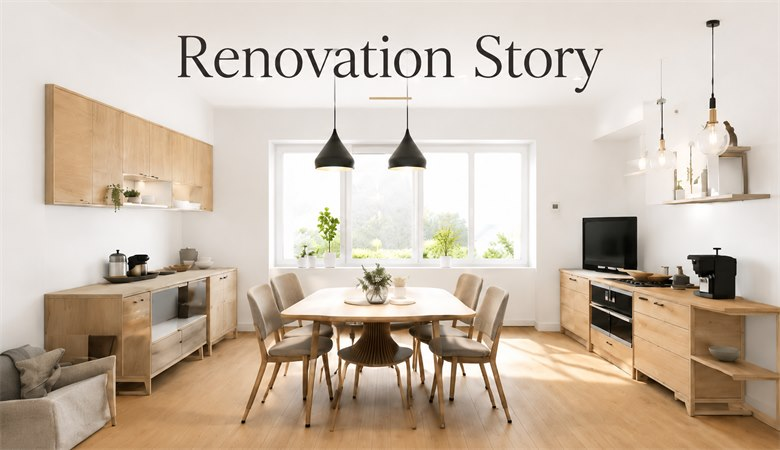
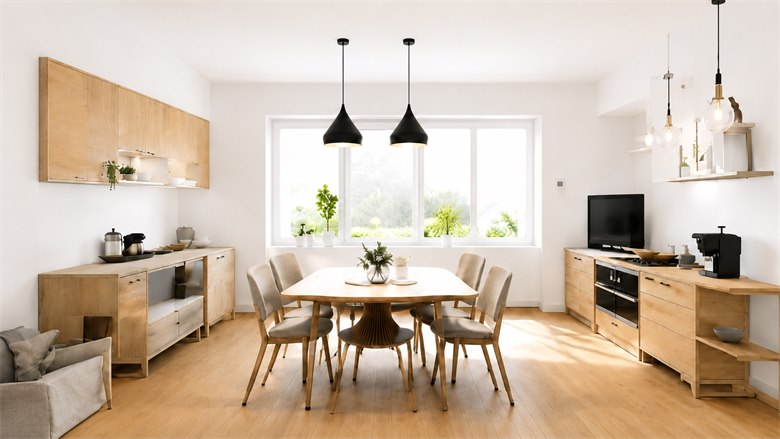
スクロールバーを隠し、見出し画像を写真だけにして文字を重ねた
- .scroll-clean を追加し、横に流れるカード列と左カラムのバーを消した。
  常時出る細いバーは画面の端に線が増えるだけで、見切れた中身そのものが
  「まだ続く」合図になる。スクロール自体はそのままできる
- 見出し画像を写真だけのものに差し替え（780x439 / 58KB）、
  「Renovation Story」はHTMLで重ねる。画面幅で大きさが変わり、
  文言を変えても画像を作り直さずに済む
  文字入りの旧版は renovation-story.withtext.jpg に残した

diff --git a/app/s/[token]/page.tsx b/app/s/[token]/page.tsx
@@ -191,17 +191,22 @@ export default async function SharePage({ params }: { params: Promise<{ token: s
         {/* ── 左：変わらない情報 ───────────────────────── */}
         {/* 左は固定するが、中身が画面より高いときは左だけで縦に流す。
             そうしないと、右を一番下まで送らないと相談窓口に届かない */}
-        <aside className="space-y-4 lg:sticky lg:top-[64px] lg:max-h-[calc(100vh-80px)] lg:self-start lg:overflow-y-auto lg:pr-1">
+        <aside className="scroll-clean space-y-4 lg:sticky lg:top-[64px] lg:max-h-[calc(100vh-80px)] lg:self-start lg:overflow-y-auto">
           {/*
             左上は現場の写真ではなく、このページ自体の見出し画像を置く。
             右のヒーローと同じ写真を並べても情報が増えないため。
           */}
           {storySrc && (
-            <div className="overflow-hidden rounded-2xl border border-slate-200 bg-white shadow-sm">
-              {/* 高さを固定すると、幅の広いスマホで上下が切れて文字が消える。
-                  画像の比率のまま出す */}
+            <div className="relative overflow-hidden rounded-2xl border border-slate-200 bg-white shadow-sm">
+              {/* 高さを固定すると、幅の広いスマホで上下が切れる。画像の比率のまま出す */}
               {/* eslint-disable-next-line @next/next/no-img-element */}
-              <img src={storySrc} alt="Renovation Story" className="block w-full" />
+              <img src={storySrc} alt="" className="block w-full" />
+              {/* 文字は画像に焼き込まず、ここで重ねる。
+                  画面幅で大きさが変わり、文言を変えても画像を作り直さずに済む */}
+              <div className="absolute inset-0 flex flex-col justify-end bg-gradient-to-t from-black/65 via-black/15 to-transparent p-4">
+                <p className="text-[9px] font-bold tracking-[0.25em] text-white/75">PROJECT</p>
+                <p className="text-[17px] font-bold leading-tight text-white">Renovation Story</p>
+              </div>
             </div>
           )}
 
@@ -334,7 +339,7 @@ export default async function SharePage({ params }: { params: Promise<{ token: s
               </div>
 
               {/* 5つの節目。狭い画面では中で横に流す（ページ全体を広げない） */}
-              <ol className="-mx-1 flex min-w-0 items-start gap-1 overflow-x-auto px-1 pb-1 sm:gap-2 lg:overflow-visible lg:pb-0">
+              <ol className="scroll-clean -mx-1 flex min-w-0 items-start gap-1 overflow-x-auto px-1 pb-1 sm:gap-2 lg:overflow-visible lg:pb-0">
                 {PHASE_GROUPS.map((g, i) => {
                   const done = week !== null && Math.max(...g.weeks) < week;
                   const now = currentGroup?.no === g.no;
@@ -463,7 +468,7 @@ export default async function SharePage({ params }: { params: Promise<{ token: s
           {story.length > 0 && (
             <section id="story">
               <h2 className="mb-3 text-[19px] font-bold">プロジェクトの歩み</h2>
-              <div className="-mx-1 flex gap-3 overflow-x-auto px-1 pb-2">
+              <div className="scroll-clean -mx-1 flex gap-3 overflow-x-auto px-1 pb-2">
                 {story.map((s) => (
                   <a
                     key={s.id}

diff --git a/components/Workspace.tsx b/components/Workspace.tsx
@@ -230,7 +230,7 @@ export default function Workspace({ project, me }: { project: Project; me: Publi
         {/* 左：どこに何があるかを固定する。縦に長い1枚ページだと迷うため */}
         {/* min-w-0 が無いと、メニューが列の幅を押し広げて横スクロールが出る */}
         <nav className="sticky top-[52px] z-10 -mx-5 min-w-0 bg-slate-100/95 px-5 py-2 backdrop-blur lg:top-[60px] lg:mx-0 lg:self-start lg:bg-transparent lg:px-0 lg:py-0 lg:backdrop-blur-none">
-          <ul className="flex gap-2 overflow-x-auto pb-1 lg:block lg:space-y-1 lg:overflow-visible lg:pb-0">
+          <ul className="scroll-clean flex gap-2 overflow-x-auto pb-1 lg:block lg:space-y-1 lg:overflow-visible lg:pb-0">
             {TABS.map((t) => (
               <li key={t.key} className="shrink-0">
                 <button

diff --git a/app/globals.css b/app/globals.css
@@ -42,6 +42,20 @@ button:not(:disabled):active {
 }
 
 /*
+ * スクロールバーを出さずに、スクロールはできるようにする。
+ * 横に流れるカード列や、左カラムだけを流す箇所で使う。
+ * 常時出る細いバーは、画面の端に線が増えるだけで意味を持たないため。
+ * 見切れた中身そのものが「まだ続く」という合図になる。
+ */
+.scroll-clean {
+  scrollbar-width: none; /* Firefox */
+  -ms-overflow-style: none; /* 旧Edge */
+}
+.scroll-clean::-webkit-scrollbar {
+  display: none;
+}
+
+/*
  * 印刷。見積書をそのまま紙とPDFに出すため。
  * 操作用の部品（.no-print）は落とし、入力欄は枠を消して文字だけ残す。
  */

diff --git a/components/Takeoff.tsx b/components/Takeoff.tsx
@@ -219,7 +219,7 @@ export default function Takeoff({
         金額はAIが出しません（単価は会社ごと・時期ごとに違い、変更工事の見積は書面で提示する必要があるため）。
       </p>
 
-      <div className="mt-3 overflow-x-auto rounded-xl border border-slate-200">
+      <div className="scroll-clean mt-3 overflow-x-auto rounded-xl border border-slate-200">
         <table className="w-full min-w-[540px] text-left text-[13px]">
           <thead className="bg-slate-50 text-[12px] text-slate-500">
             <tr>

diff --git a/components/ContractScope.tsx b/components/ContractScope.tsx
@@ -71,7 +71,7 @@ export default function ContractScope({ project }: { project: Project }) {
           </div>
 
           {open && (
-            <div className="mt-3 max-h-[320px] overflow-y-auto rounded-xl border border-slate-200 p-4">
+            <div className="scroll-clean mt-3 max-h-[320px] overflow-y-auto rounded-xl border border-slate-200 p-4">
               <ul className="space-y-1">
                 {scope.included.map((x, i) => (
                   <li key={i} className="text-[13px]">
